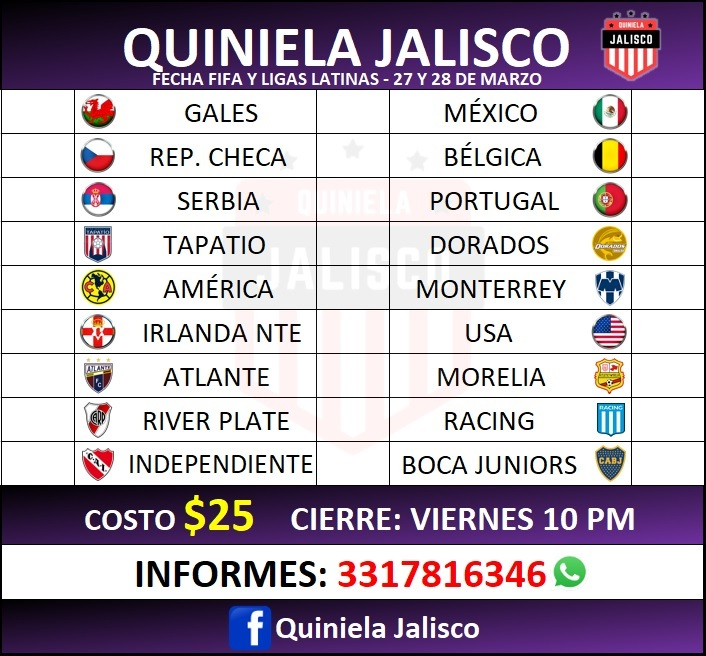
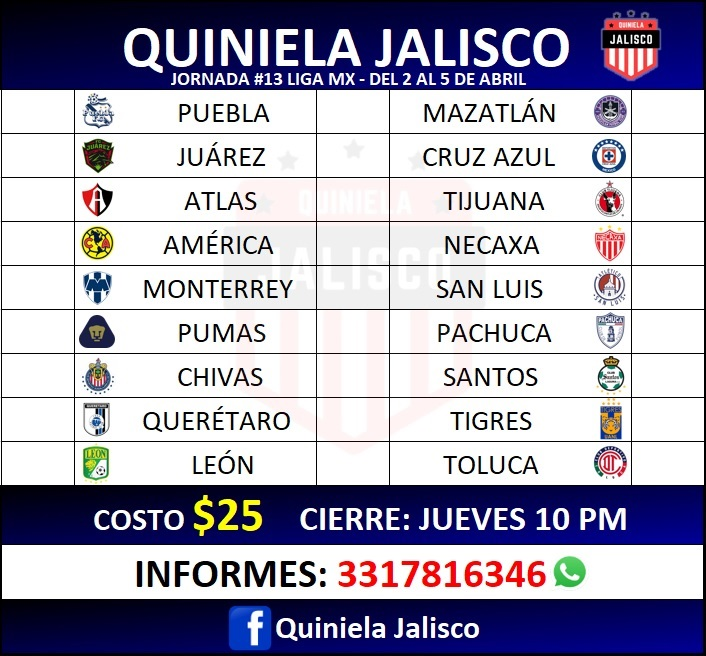
Jornada 13 C21

diff --git a/styles.css b/styles.css
@@ -88,8 +88,8 @@ h1{
     margin-top: 8%;
     border: solid 1px black;
     border-radius: 0 0 14px 14px;
-    background: -webkit-linear-gradient(0.04turn, rgb(8,20,20)  ,rgb(102,54,138) 80%);
-    background: linear-gradient(0.04turn, rgb(8,20,20)  ,rgb(102,54,138) 80%);
+    background: -webkit-linear-gradient(0.04turn, rgb(8,20,20)  ,rgb(3,0,141) 80%);
+    background: linear-gradient(0.04turn, rgb(8,20,20)  ,rgb(3,0,141) 80%);
     font-size: x-large;
 }
 
